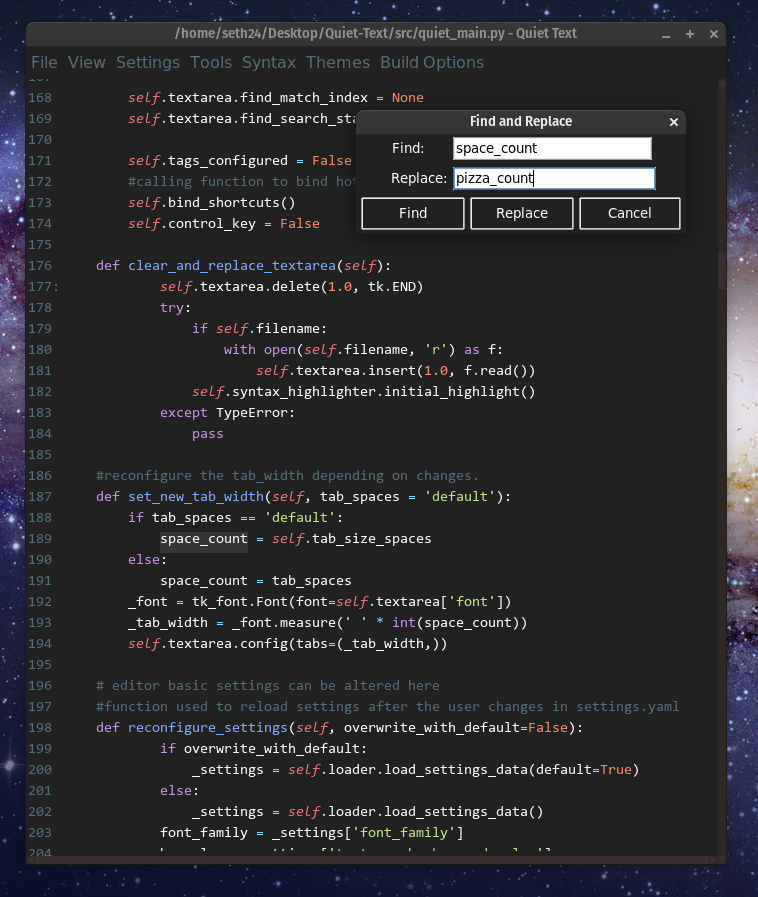
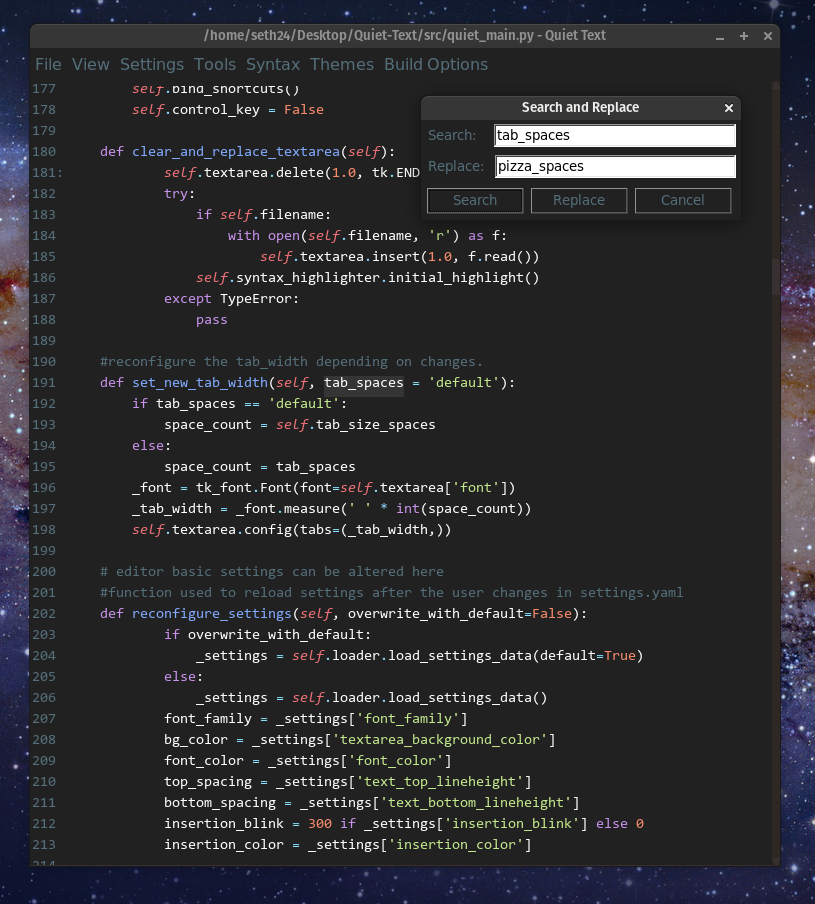
fixed themes and updated readme picture

diff --git a/src/quiet_main.py b/src/quiet_main.py
@@ -36,16 +36,20 @@ class QuietText(tk.Frame):
         master.iconphoto(False, icon)
 
         # start editor according to defined settings in settings.yaml
-        self.settings = self.loader.load_settings_data()
+        self.initial_theme_settings = self.loader.load_settings_data()
         self.default_theme = self.loader.load_default_theme()
 
-        self.settings['font_color'] = self.default_theme['font_color']
-        self.settings['textarea_background_color'] = self.default_theme['bg_color']
-        self.settings['menubar_active_bg'] = self.default_theme['menu_bg_active']
-        self.settings['menubar_active_fg'] = self.default_theme['menu_fg_active']  
-        self.settings['menu_bg'] = self.default_theme['bg_color']
-        self.settings['font_color'] = self.default_theme['font_color']
-        self.settings['menu_fg'] = self.default_theme['comment_color']
+        self.initial_theme_settings['font_color'] = self.default_theme['font_color']
+        self.initial_theme_settings['textarea_background_color'] = self.default_theme['bg_color']
+        self.initial_theme_settings['menubar_active_bg'] = self.default_theme['menu_bg_active']
+        self.initial_theme_settings['menubar_active_fg'] = self.default_theme['menu_fg_active']  
+        self.initial_theme_settings['menu_bg'] = self.default_theme['bg_color']
+        self.initial_theme_settings['font_color'] = self.default_theme['font_color']
+        self.initial_theme_settings['menu_fg'] = self.default_theme['comment_color']
+        self.initial_theme_settings['text_selection_bg'] = self.default_theme['selection_color']
+
+        self.loader.store_settings_data(self.initial_theme_settings)
+        self.settings = self.loader.load_settings_data()
 
         self.browser = self.settings['web_browser']
         self.font_family = self.settings['font_family']
@@ -231,8 +235,10 @@ class QuietText(tk.Frame):
             self.textarea.reload_text_settings()
             self.set_new_tab_width(tab_size_spaces)
             self.menubar.reconfigure_settings()
-            self.active_bg = _settings['menubar_active_bg']
-            self.active_fg = _settings['menubar_active_fg']
+            self.bg_color = bg_color
+            self.menu_fg = menu_fg
+            self.menubar_active_bg = _settings['menubar_active_bg']
+            self.menubar_active_fg = _settings['menubar_active_fg']
             self.linenumbers.font_color = menu_fg
             self.linenumbers.bg_color = bg_color
             self.linenumbers._text_font = font_family
@@ -241,12 +247,20 @@ class QuietText(tk.Frame):
             font_style = tk_font.Font(family=font_family,
                                       size=_settings['font_size'])
 
+            self.menubar._menubar.configure(
+                          fg=menu_fg,
+                          bg=menu_bg,
+                          activeforeground=self.menubar_active_fg,
+                          activebackground=self.menubar_active_bg,
+                          activeborderwidth=0,
+                          bd=0)
+
             self.context_menu.right_click_menu.configure(
                                 font=font_family,
                                 fg=menu_fg,
                                 bg=bg_color,
-                                activebackground=self.active_bg,
-                                activeforeground=self.active_fg,
+                                activebackground=self.menubar_active_bg,
+                                activeforeground=self.menubar_active_fg,
                                 bd=0,
                                 tearoff=0)
 
@@ -267,13 +281,17 @@ class QuietText(tk.Frame):
 
 
             if overwrite_with_default:
-                MsgBox = tk.messagebox.askquestion('Reset Settings?',
-                                                   'Are you sure you want to reset the editor settings to their default value?',
-                                                    icon='warning')
+                MsgBox = tk.messagebox.askquestion(
+                    'Reset Settings?',
+                    'Are you sure you want to reset the editor settings to their default value?',
+                    icon='warning')
                 if MsgBox == 'yes':
+                    self.menubar.load_default()
                     self.loader.store_settings_data(_settings)
                 else:
-                    self.save(self.loader.settings_path)
+                    if self.filename == self.loader.settings_path: 
+                        self.save(self.loader.settings_path)
+                    self.reconfigure_settings()
 
     # editor quiet mode calling which removes status bar and menu bar
     def enter_quiet_mode(self, *args):
@@ -582,6 +600,10 @@ class QuietText(tk.Frame):
 
     def show_find_window(self, event=None):
         self.textarea.tag_configure('find_match', background=self.text_selection_bg)
+        self.textarea.bg_color = self.bg_color
+        self.textarea.fg_color = self.menu_fg
+        self.textarea.active_fg = self.menubar_active_fg
+        self.textarea.active_bg = self.menubar_active_bg
         FindWindow(self.textarea)
         self.control_key = False
         self.textarea.isControlPressed = False
@@ -753,6 +775,7 @@ if __name__ == '__main__':
         qt.open_file_without_dialog(sys.argv[-1])
     master.protocol("WM_DELETE_WINDOW", qt.on_closing)
     master.mainloop()
+
 
 
 

diff --git a/src/quiet_find.py b/src/quiet_find.py
@@ -8,60 +8,66 @@ class FindWindow(tk.Toplevel):
 
         self.master = master
 
-        self.geometry('330x100')
-        self.title('Find and Replace')
-        self.transient(self.master)
-        self.configure(bg=self.master.bg_color)
+        self.geometry('320x100')
+        self.title('Search and Replace')
+        self.transient(master)
+        self.configure(bg=master.bg_color)
         self.style = ttk.Style()
-        self.style.theme_use('clam')
+        self.style.theme_use('alt')
+        self.bg_color = master.bg_color
+        self.fg_color = master.fg_color
+        self.active_fg = master.active_fg
+        self.active_bg = master.active_bg
 
         self.text_to_find = tk.StringVar()
         self.text_to_replace_with = tk.StringVar()
 
-        top_frame = tk.Frame(self, bg=self.master.bg_color)
-        middle_frame = tk.Frame(self, bg=self.master.bg_color)
-        bottom_frame = tk.Frame(self, bg=self.master.bg_color)
+        top_frame = tk.Frame(self, bg=self.bg_color)
+        middle_frame = tk.Frame(self, bg=self.bg_color)
+        bottom_frame = tk.Frame(self, bg=self.bg_color)
 
-        self.style.configure('editor.TLabel',
-                background=self.master.bg_color,
-                foreground='#ffffff')
+        self.style.configure(
+            'editor.TLabel',
+             background=self.bg_color,
+             foreground=self.fg_color,)
 
-        find_entry_label = ttk.Label(top_frame, text="Find: ", style="editor.TLabel")
+        find_entry_label = ttk.Label(top_frame, text="Search: ", style="editor.TLabel")
         self.find_entry = ttk.Entry(top_frame, textvar=self.text_to_find)
 
         replace_entry_label = ttk.Label(middle_frame, text="Replace: ", style="editor.TLabel")
         self.replace_entry = ttk.Entry(middle_frame, textvar=self.text_to_replace_with)
 
         self.style.configure('editor.TButton',
-                background=self.master.bg_color,
-                foreground='#ffffff')
+                background=self.bg_color,
+                foreground=self.fg_color,
+                activeforeground=self.active_fg)
 
         self.style.map('editor.TButton',
-                background=[('pressed', '#3e4037'), ('active', '#3e4037')])
+                background=[('pressed', self.active_fg), ('active', self.active_bg)])
 
-        self.find_button = ttk.Button(bottom_frame, text="Find", command=self.on_find, style="editor.TButton")
+        self.find_button = ttk.Button(bottom_frame, text="Search", command=self.on_find, style="editor.TButton")
         self.replace_button = ttk.Button(bottom_frame, text="Replace", command=self.on_replace, style="editor.TButton")
         self.cancel_button = ttk.Button(bottom_frame, text="Cancel", command=self.on_cancel, style="editor.TButton")
 
-        find_entry_label.pack(side=tk.LEFT, padx=(0, 23))
-        self.find_entry.pack(side=tk.LEFT, fill=tk.X, expand=1)
+        find_entry_label.pack(side=tk.LEFT, padx=(5, 12))
+        self.find_entry.pack(side=tk.LEFT, fill=tk.X, expand=1, padx=(0, 5))
 
-        replace_entry_label.pack(side=tk.LEFT, padx=(3, 0))
-        self.replace_entry.pack(side=tk.LEFT, fill=tk.X, expand=1)
+        replace_entry_label.pack(side=tk.LEFT, padx=(5, 5))
+        self.replace_entry.pack(side=tk.LEFT, fill=tk.X, expand=1, padx=(0, 5))
 
         self.find_button.pack(side=tk.LEFT, padx=(5, 0))
         self.replace_button.pack(side=tk.LEFT, padx=(5, 0))
         self.cancel_button.pack(side=tk.LEFT, padx=(5, 5))
 
-        top_frame.pack(side=tk.TOP, expand=1, fill=tk.X, padx=34)
-        middle_frame.pack(side=tk.TOP, expand=1, fill=tk.X, padx=30)
+        top_frame.pack(side=tk.TOP, expand=1, fill=tk.X, padx=0)
+        middle_frame.pack(side=tk.TOP, expand=1, fill=tk.X, padx=0)
         bottom_frame.pack(side=tk.TOP, expand=1, fill=tk.X)
 
         self.find_entry.focus_force()
 
         self.protocol("WM_DELETE_WINDOW", self.on_cancel)
 
-        self.minsize(330, 100)
+        self.minsize(320, 100)
 
     def on_find(self):
         self.master.find(self.text_to_find.get())

diff --git a/src/quiet_menubar.py b/src/quiet_menubar.py
@@ -21,6 +21,7 @@ class Menubar():
         self.settings['menu_bg'] = self.default_theme['bg_color']
         font_specs = ('Droid Sans Fallback', 12)
 
+        self.default_theme_path = self._parent.loader.resource_path(os.path.join('data', 'theme_configs/default.yaml'))
         self.monokaipro_theme_path = self._parent.loader.resource_path(os.path.join('data', 'theme_configs/monokai_pro.yaml'))
         self.monokai_theme_path = self._parent.loader.resource_path(os.path.join('data', 'theme_configs/monokai.yaml'))
         self.gruvbox_theme_path = self._parent.loader.resource_path(os.path.join('data', 'theme_configs/gruvbox.yaml'))
@@ -105,6 +106,8 @@ class Menubar():
 
         #theme dropdown menu
         theme_dropdown = tk.Menu(menubar, font=font_specs, tearoff=0)
+        theme_dropdown.add_command(label='Default',
+                                   command=self.load_default)
         theme_dropdown.add_command(label='Monokai',
                                    command=self.load_monokai)
         theme_dropdown.add_command(label='Monokai Pro',
@@ -380,21 +383,26 @@ class Menubar():
 
 
     def set_default_theme(self):
-        themes = {'monokai pro':self.monokaipro_theme_path,
-                  'monokai':self.monokai_theme_path,
-                  'gruvbox':self.gruvbox_theme_path,
-                  'solarized':self.solarized_theme_path,
-                  'darkheart':self.darkheart_theme_path,
-                  'githubly':self.githubly_theme_path,
-                  'dracula':self.dracula_theme_path,
-                  'pumpkin':self.pumpkin_theme_path,
-                  'material':self.material_theme_path}
+        themes = {
+        'default':self.default_theme_path,
+        'monokai pro':self.monokaipro_theme_path,
+        'monokai':self.monokai_theme_path,
+        'gruvbox':self.gruvbox_theme_path,
+        'solarized':self.solarized_theme_path,
+        'darkheart':self.darkheart_theme_path,
+        'githubly':self.githubly_theme_path,
+        'dracula':self.dracula_theme_path,
+        'pumpkin':self.pumpkin_theme_path,
+        'material':self.material_theme_path}
         new_default_theme_path = themes[self.current_theme]
         with open(new_default_theme_path, 'r') as new_theme_data:
             new_theme = yaml.load(new_theme_data, Loader=yaml.FullLoader)
         with open(self._parent.loader.default_theme_path, 'w') as default_theme:
             yaml.dump(new_theme, default_theme)
 
+    def load_default(self):
+      self.syntax.load_new_theme(self.default_theme_path)
+      self.current_theme = 'default'
 
     def load_monokai_pro(self):
         self.syntax.load_new_theme(self.monokaipro_theme_path)

diff --git a/src/quiet_textarea.py b/src/quiet_textarea.py
@@ -10,6 +10,9 @@ class CustomText(tk.Text):
         # create a proxy for the underlying widget
         self.settings = self.loader.load_settings_data()
         self.bg_color = self.settings['textarea_background_color']
+        self.fg_color = self.settings['menu_fg']
+        self.active_fg = self.settings['menu_active_fg']
+        self.active_bg = self.settings['menu_active_bg']
         self.isControlPressed = False
         self._orig = self._w + '_orig'
         self.tk.call('rename', self._w, self._orig)
@@ -84,3 +87,7 @@ class CustomText(tk.Text):
     def reload_text_settings(self):
         settings = self.loader.load_settings_data()
         self.bg_color = settings['textarea_background_color']
+        self.bg_color = settings['textarea_background_color']
+        self.fg_color = settings['menu_fg']
+        self.active_fg = settings['menu_active_fg']
+        self.active_bg = settings['menu_active_bg']

diff --git a/src/quiet_statusbar.py b/src/quiet_statusbar.py
@@ -76,3 +76,4 @@ class Statusbar:
 
     def reconfigure_status_label(self):
         self._label.config()
+
